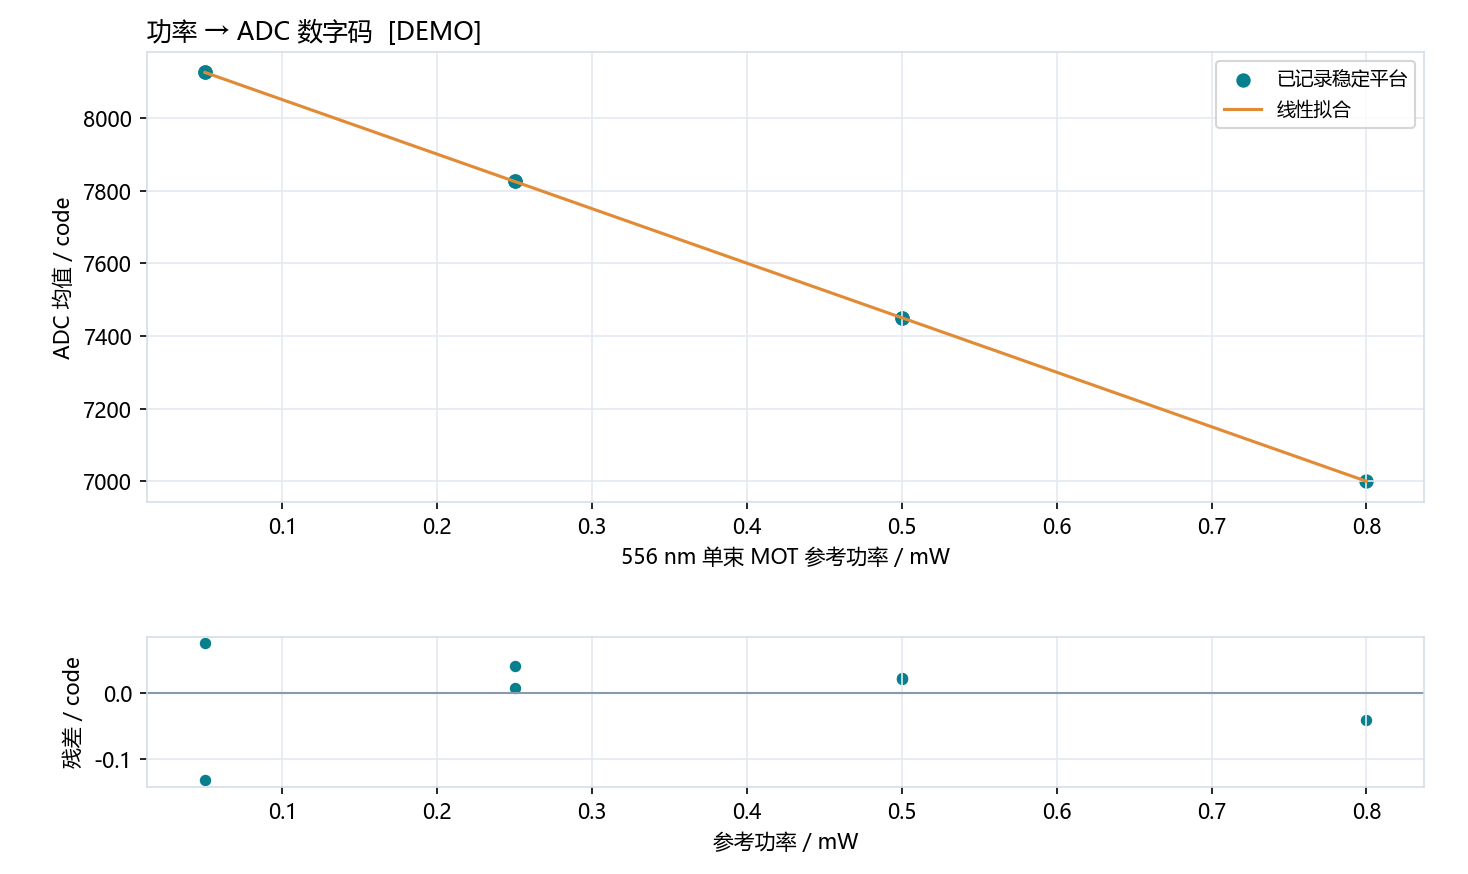
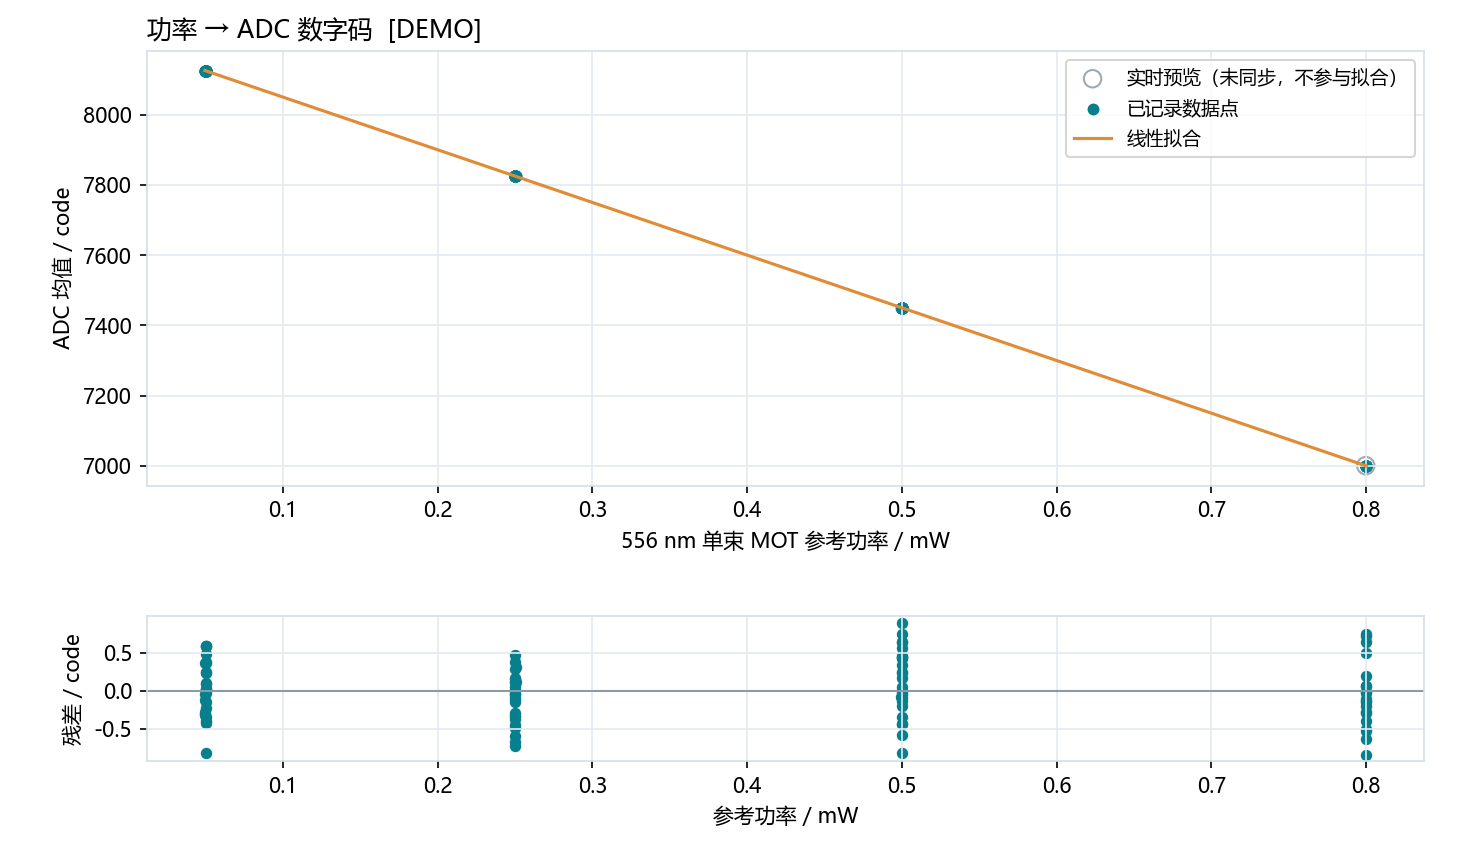
Record current UI smoke test and refresh file checksums

diff --git a/validation/PUBLISH_VALIDATION_20261020.md b/validation/PUBLISH_VALIDATION_20261020.md
@@ -1,0 +1,3 @@
+# 2026-10-20 发布检查
+
+9项Python测试通过。实际Tk演示采集运行19秒，记录98个点，绘图/拟合/保存通过；演示斜率-1500.1032，预期-1500。当前桌面截图接口不可用，未据此声称视觉截图验收。
